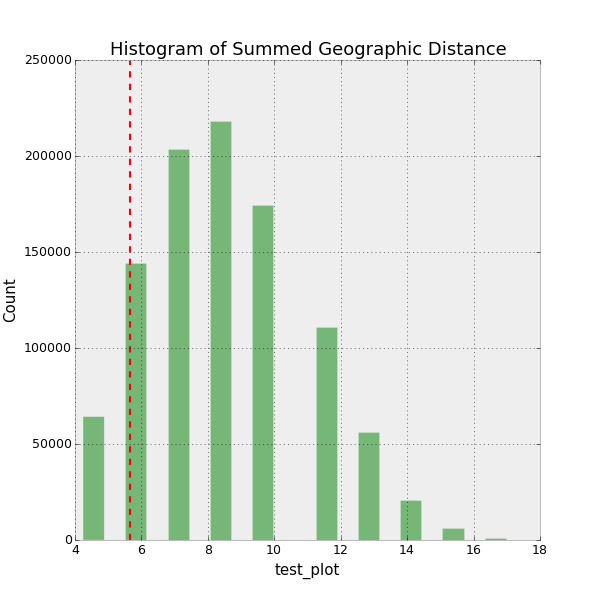
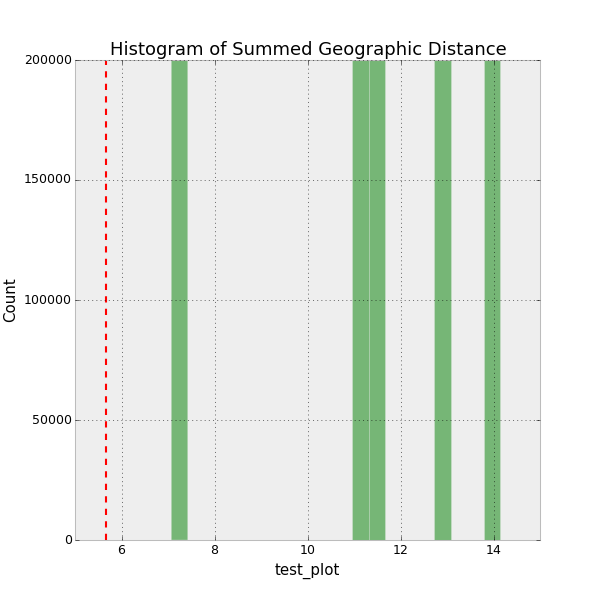
calculate each pair distance once, and then reuse it potentially many times. At 1MM bootstraps, the speedup is from 11.499 to 2.0 sec.

diff --git a/analysis/optimize-geographic-pvalue/opt-geog-2.py b/analysis/optimize-geographic-pvalue/opt-geog-2.py
@@ -46,7 +46,7 @@ def calculateGeographicSolutionPValue(graph,num_bootstrap,self_xassem,self_yasse
         assemblagesInSolution.append(fromAssemblage)
         assemblagesInSolution.append(toAssemblage)
     assemblageSet = set(assemblagesInSolution)
-    #print "solution Distance: %s" % solutionDistance
+    print "solution Distance: %s" % solutionDistance
 
     rnd.seed()  # uses system time to initialize random number generator, or you can pass in a deterministic seed as an argument if you want
     x = []
@@ -58,19 +58,28 @@ def calculateGeographicSolutionPValue(graph,num_bootstrap,self_xassem,self_yasse
     rnd.shuffle(random_pairs)
     bootstrap_pairs = itertools.cycle(random_pairs)
 
+    # there are a much smaller number of pairs of assemblages than bootstrap iterations, typically,
+    # so pre-calculate the distances and then just look them up while going through the bootstrap
+    # loop itself.
+    distances = dict()
+    for pair in random_pairs:
+        p1 = pair[0]
+        p2 = pair[1]
+        dist = math.sqrt(pow((int(self_xassem[p1]) - int(self_xassem[p2])), 2)
+                        + pow((int(self_yassem[p1]) - int(self_yassem[p2])), 2))
+        distances[pair] = dist
+
     for i in xrange(0, num_bootstraps):
         testDistance = 0.0
         for e in xrange(0, edges):
             pair = bootstrap_pairs.next()
-            p1 = pair[0]
-            p2 = pair[1]
-            #print "Pair: ", p1, "-", p2
-            testDistance += math.sqrt(pow((int(self_xassem[p1]) - int(self_xassem[p2])), 2)
-                                          + pow((int(self_yassem[p1]) - int(self_yassem[p2])), 2))
-            #print "Test Distance: ", testDistance
 
+            #print "Pair: ", p1, "-", p2
+            testDistance += distances[pair]
+
+        #print "Test Distance: ", testDistance
         if testDistance <= solutionDistance:
-            # print "TEST is less than solutionDistance: ",testDistance
+            #print "TEST is less than solutionDistance: ",testDistance
             pvalueScore += 1
         x.append(testDistance)
 
@@ -100,6 +109,8 @@ def calculateGeographicSolutionPValue(graph,num_bootstrap,self_xassem,self_yasse
 
     if pvalue == 0:
         pvalue = "0.000"
+
+    #print "pvalue: %s" % pvalue
     return pvalue, solutionDistance, mean(x), std(x)
 
 
